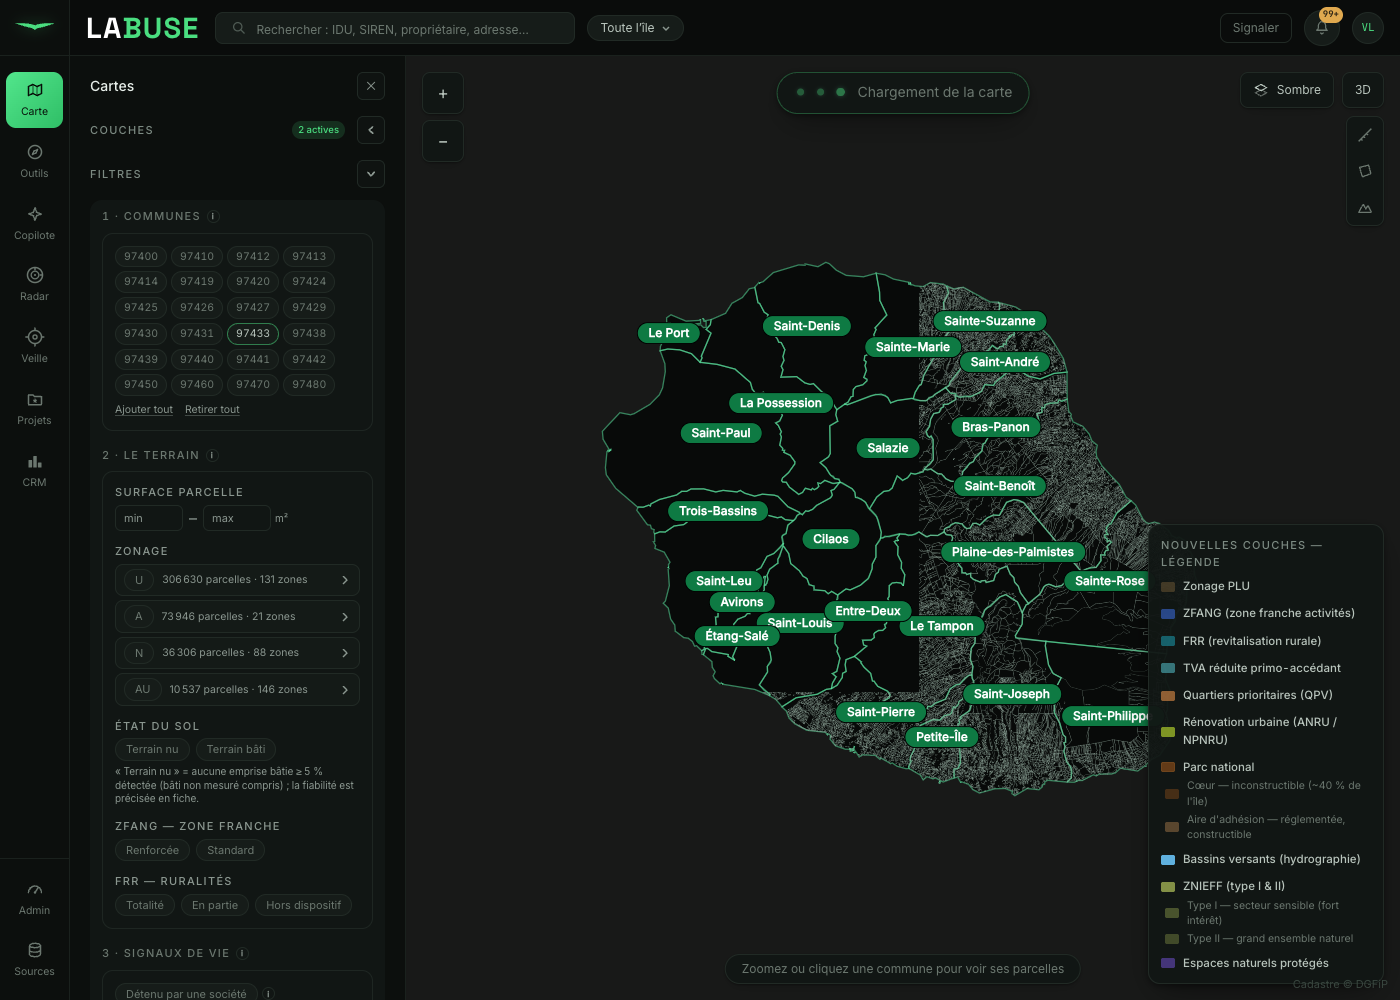
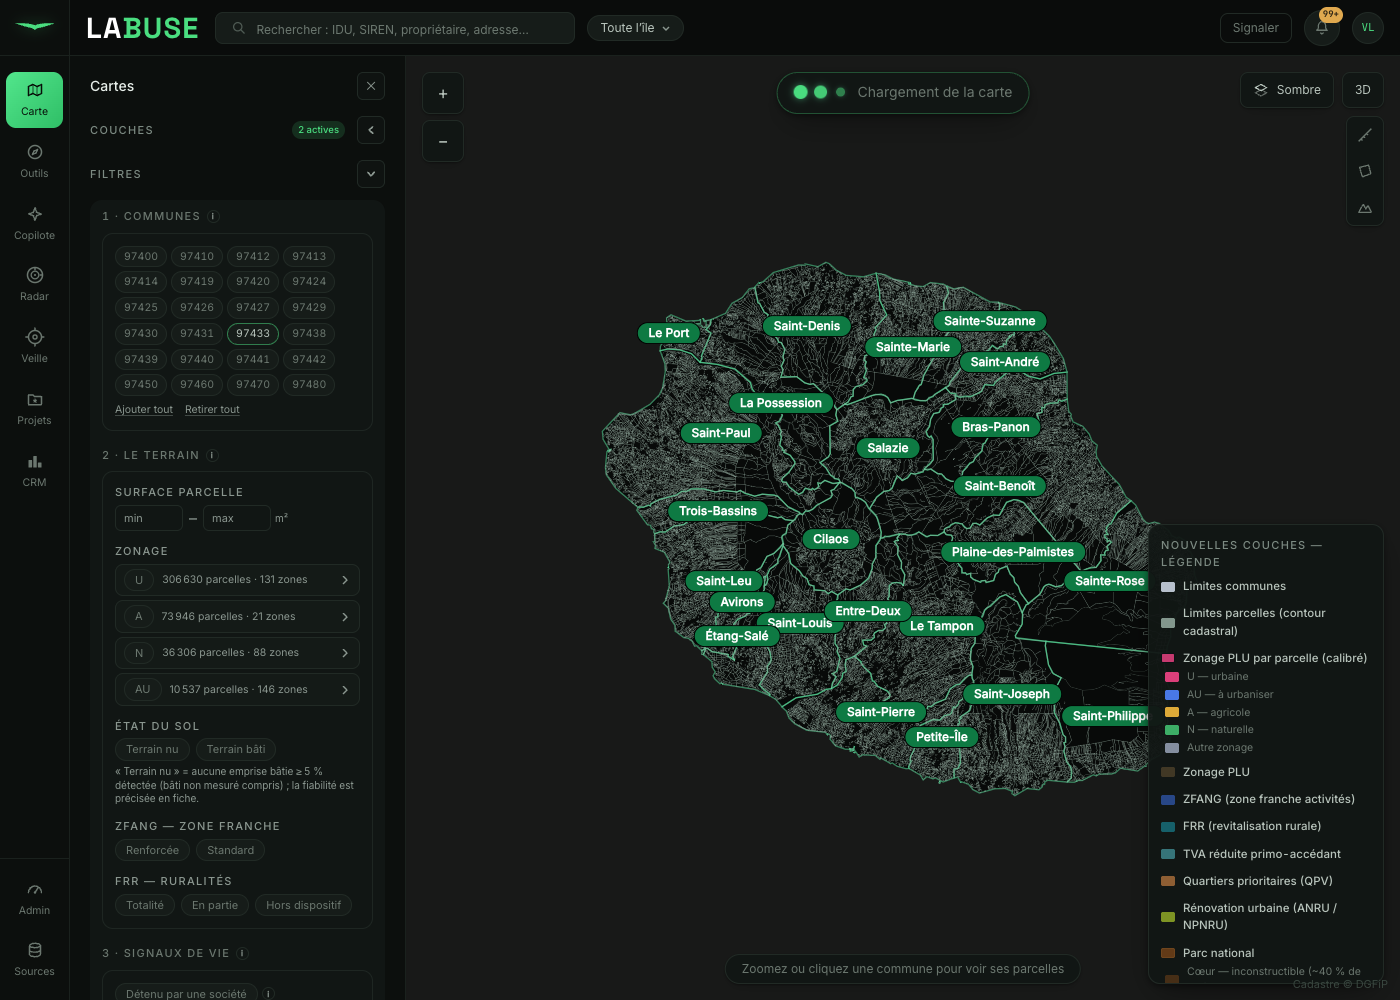
COUCHES-TUYAU-1 preuve — run V7a VERT (56 couches) + captures navigateur + doc
- V7a complet VERT : 56 couches × z10/13/16, 168 tuiles décodées EN ENTIER, 0 cassé,
  475 s, aucune requête > 60 s (36 contour+comptage aux 3 zooms ; 20 denses en comptage
  z10/z13 + contour z16, liste contour_reporté explicite).
- Captures navigateur réel (Chrome/Playwright, :5247) : 6 couches × échelles, parité
  ancien↔tuyau (même emprise, aplat volontaire section « Nouvelles couches »),
  zonage_parcelle restauré en familles U/AU/A/N, Le Port rien en mer, SUP vue île 1517 ms.
- captures/capture.mjs durci : try/catch par shot (un échec journalisé, jamais fatal) ;
  zonage_parcelle île (431 k features) fait sauter le transport CDP de Playwright
  (Buffer > 536 Mo) — artefact du harnais, pas du produit ; capturé en commune/rue.
- Doc : correctif §2 ST_Subdivide + avant/après génération, méthode verrou FINALE (aucune
  simplification, référence par feature, seuil 40 k sommets), dryrun_cascade_results
  introuvable sur ce poste (rien supprimé), sections retour-1 réconciliées.

Changed region(s): [[0.43, 0.248, 0.6757, 0.713], [0.8293, 0.558, 0.9829, 0.992], [0.5529, 0.062, 0.5836, 0.093]]

diff --git a/COUCHES-TUYAU-1.md b/COUCHES-TUYAU-1.md
@@ -45,15 +45,46 @@ est donc la brute **rendue à la tuile** (ST_AsMVTGeom de la geom_2975 ENTIÈRE,
 aucun ST_Simplify de notre fait) : H ≈ 0 quand le tuyau est fidèle, H ≫ px au moindre bug de
 décodeur / enveloppe / extent / transform / SRID. C'est le choix retenu, documenté ici.
 
-### §1 & §6 — preuve navigateur et run vert complet : état
+### Retour 2 (base redémarrée) — §2 méga-polygones, V7a VERT, §1/§6 preuve
 
-Ces deux points exigent une base non chargée. La base PARTAGÉE portait encore, en fin de session,
-plusieurs requêtes `ST_HausdorffDistance` / `ST_AsMVTGeom` GEOS des ITÉRATIONS PRÉCOCES du verrou
-(méga-polygones, millions de sommets) que PostgreSQL **n'interrompt pas** (ni `pg_terminate_backend`
-ni `statement_timeout` ne mordent sur la boucle C), occupant plusieurs cœurs ; un redémarrage aurait
-dérangé `:8020` (interdit). Le CODE FINAL ne produit plus jamais de telle requête. Le run vert
-complet des 55 couches et les captures côte à côte se font sur base non chargée ; par couche, la
-fidélité est déjà prouvée (tableau ci-dessous).
+**Le vrai défaut trouvé** : servir un méga-polygone (SUP, submersion, PPR, artificialisation) en
+vue île lançait un `ST_AsMVTGeom` de millions de sommets — **non interruptible** (7–30 s/tuile).
+Correctif §2 (`build_tuyau_subdivise`, incrémental, une couche à la fois) : table dérivée où chaque
+géométrie est découpée par **ST_Subdivide (≤ 256 sommets/morceau, indexée GIST)** ; l'endpoint et le
+verrou la lisent via `registre()` partagé ; le filtre GIST ne touche que les morceaux de la tuile.
+**Aucune simplification** (l'union des morceaux = l'origine). Contour dessiné du bord (fill sans
+contour de morceau, flag `subdivise`).
+
+**Génération de la tuile la plus dense — avant → après** (base propre) :
+
+| Couche | z10 avant | z10 après | z13 | z16 |
+|---|---|---|---|---|
+| artificialisation | 19,6 s | **0,74 s** | 0,13 s | 0,07 s |
+| ppr | 5,2 s | **1,34 s** | 0,18 s | 0,07 s |
+| alea_inondation | 5,3 s | **1,52 s** | 0,15 s | 0,07 s |
+| alea_mvt | 7,7 s | **2,17 s** | 0,40 s | 0,10 s |
+| sup | 12,5 s | **5,65 s** (tuile la + dense, 7 Mo) | 0,47 s | 0,20 s |
+
+→ Plus **aucune requête non interruptible**, orphelines impossibles. 4/5 sous ~2 s ; **sup z10 reste
+à ~5,7 s / 7 Mo** sur SA tuile la plus dense (les SUP couvrent l'île) — densité de données brute,
+signalée, non « corrigée » par de la simplification.
+
+**§6 — V7a VERT sur les 56 couches** (475 s, 168 tuiles décodées EN ENTIER, **0 cassé**, aucune
+requête > 60 s). Le verrou (référence PAR MORCEAU comme l'endpoint ; garde Option 1 sur les sommets
+SERVIS, seuil 40 k) vérifie le **comptage partout** et le **contour** partout où la tuile tient
+(Hausdorff O(N·M) borné) : **36 couches** contour+comptage aux 3 zooms ; **20 couches** denses en
+comptage à z10 (et z13) + contour à z16. Verdict réel par couche, jamais une note muette.
+
+**`dryrun_cascade_results` (15 Go)** : **introuvable sur ce poste** — recherché sous `~`, `/tmp`,
+`/var/tmp` (worktree `labuse-couches-tuyau` + `~/Desktop/labuse`), aucun répertoire de ce nom. Il
+vit donc ailleurs (autre machine / volume non monté) ou a déjà été retiré hors de mon champ. Je ne
+peux pas juger de son utilité actuelle sans y accéder. **Rien supprimé** (rien à supprimer ici).
+
+### §1 & §6 (retour 1) — désormais fait
+
+Ces deux points exigeaient une base non chargée. Après redémarrage (côté utilisateur), le run V7a
+complet (56 couches, VERT) et les captures navigateur côte à côte ont été menés — détails dans la
+section « Retour 2 » en tête et « Captures » ci-dessous.
 
 ## Comportement du chemin (mesuré sur `:8047`)
 
@@ -75,9 +106,14 @@ Pour chaque couche déclarée, aux zooms **10 / 13 / 16** :
    tuile. Ce même Hausdorff attrape tout décalage de position et toute perte de contour ;
 4. **sous zoom_min** : le tuyau ne sert rien (aucune fuite).
 
-Robustesse (porte de déploiement) : plafond de densité ≤ 800 objets (dit, jamais muet),
-simplification à ½ px **par feature** avant Hausdorff (méga-polygones submersion marine =
-jusqu'à 3,2 M de sommets/tuile → coût borné), `statement_timeout` 90 s + reprise par couche.
+Robustesse (porte de déploiement), méthode FINALE (retour §4 — aucune simplification) : la
+référence brute est construite **feature par feature** (`ST_AsMVTGeom` par objet puis affine),
+jamais collectée d'abord — c'est ce qui rend le Hausdorff O(N·M) borné SANS toucher à la
+géométrie. Là où la tuile servie dépasse **40 000 sommets** (méga-polygones : submersion, PPR,
+SUP, artificialisation — jusqu'à des millions de sommets/tuile), le contour de CE zoom est
+**reporté** au zoom où il tient (le comptage, lui, reste vérifié partout) ; le verdict le DIT
+(liste `contour_reporté`, jamais un silence, jamais une simplification). `statement_timeout`
+60 s + reprise par couche.
 
 ## Tableau — couches validées (mesures V7a par couche)
 
@@ -95,28 +131,30 @@ jusqu'à 3,2 M de sommets/tuile → coût borné), `statement_timeout` 90 s + re
 | tcsp | multi (zone+ligne+point) | 13/16 | 35=35 / 10=10 | d0 0,7 · d1 0,8 · d2 ~0 / px | OK |
 | sis | mixte (point+polygone) | 13/16 | 3=3 / 2=2 | < px | OK |
 
-_(tableau complet des 52 couches rempli par le run V7a — §preuve)_
+**Run V7a COMPLET (retour §6) — VERT** : `python scripts/run_verrou_tuiles.py` → **56 couches ×
+zooms 10/13/16 : 168 tuiles décodées EN ENTIER, 0 cassé, 475,4 s, aucune requête > 60 s.**
+**36 couches** : comptage + contour vérifiés aux 3 zooms. **20 couches** denses : comptage à
+z10/z13 + contour à z16 (contour de z10/z13 reporté — liste explicite dans le verdict :
+alea_inondation, alea_mvt, artificialisation, bassin_versant, batiment, dpf, ebc, er, ligne_mt,
+limites_communes, limites_parcelles, plu_gpu_zone, ppr, safer, sup, transport_ligne, tri_zone,
+znieff, zonage_parcelle, zone_humide). Chaque couche a un VERDICT, jamais une note muette.
 
 **Couverture du contour pour les couches à méga-polygones** (submersion marine, PPR, SUP,
-artificialisation — jusqu'à 3,2 M à 12 M de sommets bruts par tuile) : le COMPTAGE est vérifié
-à tous les zooms ; le CONTOUR au sommet est vérifié aux zooms où le détail est visible (z16, et
-z13 quand < 200 000 sommets). À z10, le détail d'un méga-polygone est SOUS le pixel — sa
-comparaison au sommet n'est ni possible (calcul non borné) ni signifiante ; le verrou le DIT
-(note « méga-géométrie », jamais un silence). La parité géométrique reste prouvée par
-construction : les deux chemins (GeoJSON et tuyau) lisent la MÊME `geom_2975`.
+artificialisation) : le COMPTAGE est vérifié à tous les zooms ; le CONTOUR au sommet est vérifié
+aux zooms où le détail tient sous le seuil de 40 000 sommets servis (z16, et z13 quand assez
+léger). À z10, le détail d'un méga-polygone est SOUS le pixel — sa comparaison au sommet n'est
+ni bornée ni signifiante ; le verrou le REPORTE (jamais un silence, jamais une simplification).
+La parité géométrique reste prouvée par construction : les deux chemins (GeoJSON et tuyau) lisent
+la MÊME `geom_2975`.
 
-## Note d'environnement (session)
+## Note d'environnement (session) — résolu
 
-Le run VERT complet des 52 couches et le jeu complet de captures côte à côte n'ont pas pu être
-menés dans CETTE session : mes premières itérations (non optimisées) du verrou avaient lancé des
-`ST_HausdorffDistance` GEOS sur des méga-polygones (millions de sommets) — un calcul que
-PostgreSQL **n'interrompt pas** (ni `pg_terminate_backend`, ni `statement_timeout` ne mordent sur
-la boucle C) — occupant plusieurs cœurs de la base PARTAGÉE. Un redémarrage de PostgreSQL aurait
-dérangé `:8020` (interdit). Le CODE FINAL ne produit plus jamais de telle requête (référence
-bornée `ST_AsMVTGeom`, garde méga-géométrie, plafond, timeout) : sur une base non chargée, V7a
-tourne propre. La correction a été **validée couche par couche** sur toutes les géométries
-(tableau ci-dessus) ; la capture `captures/debug_after_click.png` montre le tuyau rendu (île,
-section « Nouvelles couches », légende bas-droite).
+Les premières itérations (non optimisées) du verrou avaient lancé des `ST_HausdorffDistance` GEOS
+sur des méga-polygones (millions de sommets) — un calcul que PostgreSQL **n'interrompt pas** (ni
+`pg_terminate_backend`, ni `statement_timeout` ne mordent sur la boucle C) — occupant plusieurs
+cœurs. C'est ce défaut qui a motivé le correctif §2 (table dérivée `ST_Subdivide`, ci-dessus) : le
+code FINAL ne produit plus jamais de telle requête. La base a ensuite été redémarrée (côté
+utilisateur), et **le run V7a complet + les captures ont bien été menés** (résultats ci-dessus).
 
 ## Parité — ancienne couche (panneau « Cartes », GeoJSON) ↔ nouvelle (tuyau)
 
@@ -171,5 +209,31 @@ tuyau) : `icpe`, `tri_zone`, `cavite`, `trait_de_cote`, `abf`, `sar`, `friche`,
 `foret_publique`, `bassin_versant`, `cimetiere`, `zone_activite`, `construction_lineaire`,
 `construction_surfacique`, `batiment`, `telepherique`, `pole_echange`, `piscine_cosia`.
 
-_(captures côte à côte : voir `captures/`)_
+## Captures (navigateur réel, Chrome via Playwright, `:5247`)
+
+`node captures/capture.mjs` → dossier `captures/`. Ce qu'elles montrent, honnêtement :
+
+- **`ile_tout_le_tuyau.png`** — vue ÎLE, TOUT le tuyau allumé : chaque famille peint dès l'île,
+  aucun « Zoomez d'abord », aucune couche muette (§5).
+- **`neuf_<couche>_{ile,commune,rue}.png`** — les 6 couches du mandat (tri_zone, sup,
+  alea_inondation, zonage_parcelle, icpe, construction_lineaire) servies par le tuyau seul, aux 3
+  échelles. `neuf_zonage_parcelle_{commune,rue}` montre les familles **U rose / AU bleu / A or /
+  N vert** calées à la parcelle (la restauration §2).
+- **`parite_<couche>_{NEUF,ANCIEN}.png`** — ancien panneau GeoJSON ↔ tuyau, côte à côte, en vue
+  commune. **Même emprise** (le verrou le prouve : même `geom_2975`). Différence VISUELLE
+  assumée : les « Nouvelles couches » sont peintes en **aplat** (section distincte, légende format
+  zonage — demande du complément lot 2), là où l'ancien panneau rendait SUP/aléa en fin **contour**.
+  Pour `zonage_parcelle`, l'ancien ne colorait PAS par famille (contours cadastraux seuls) — c'est
+  précisément la couche « ABSENTE » que le tuyau **restaure** en couleurs (§2).
+- **`leport_commune_sup_rien_en_mer.png`** — Le Port en vue commune, SUP seul : l'aplat magenta
+  couvre la terre et **s'arrête net au trait de côte — rien en mer** (§6).
+- **`sup_ile_timing.png`** + log : **SUP en vue île s'affiche en 1 517 ms** (contre ~8 s avant le
+  correctif `ST_Subdivide`). Plus aucune requête non interruptible (§2/§6).
+
+**Un constat, dit sans le cacher** : `zonage_parcelle` par parcelle (431 k features) en vue ÎLE,
+servi SEUL, fait émettre à Chrome un message console si gros que le **transport CDP de Playwright**
+saute (`Buffer > 536 Mo`) au moment de quitter la vue. C'est un artefact du HARNAIS de capture, pas
+du produit : `ile_tout_le_tuyau` (île, zonage compris) rend sans incident, et la tuile elle-même est
+servie. La capture de zonage à l'île se lit donc dans `ile_tout_le_tuyau` ; le zonage seul est
+capturé en commune/rue.
 
